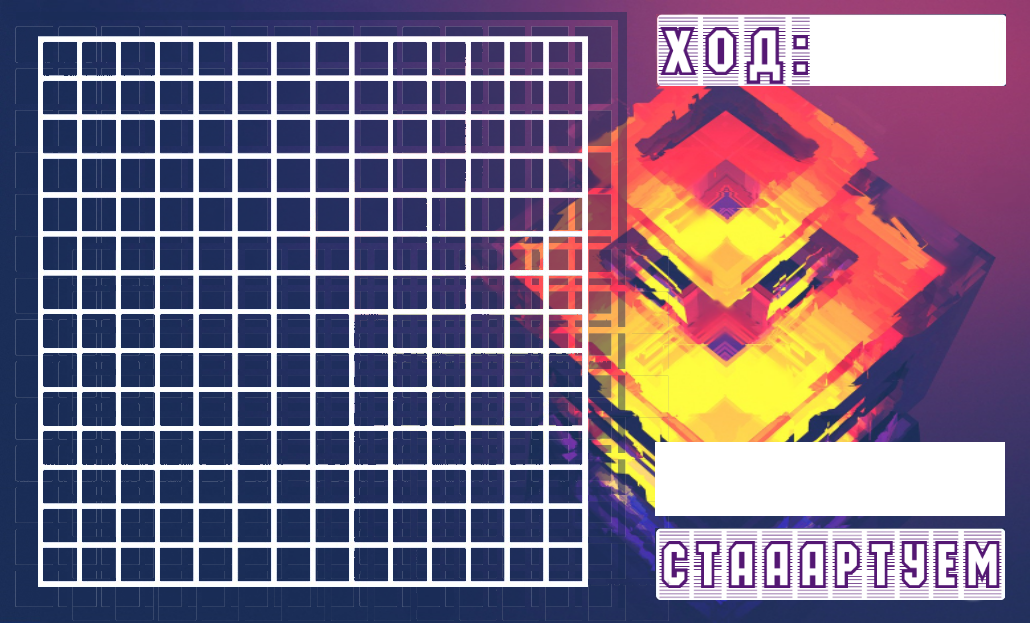
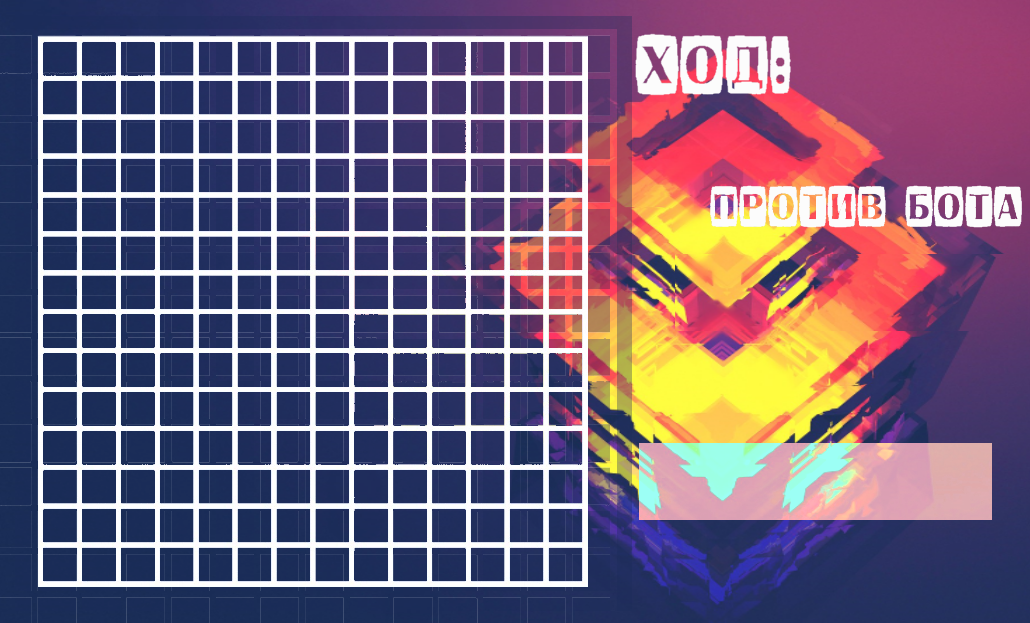
very beautiful

diff --git a/src/Rendzu/styles.css b/src/Rendzu/styles.css
@@ -7,9 +7,16 @@
 
 .button {
     -fx-background-image: url(Images/buttonSkip.png);
-        -fx-background-repeat: stretch;
-        -fx-background-size: 330 67;
-        -fx-background-position: center center;
+    -fx-background-repeat: stretch;
+    -fx-background-size: 375 39;
+    -fx-background-position: center center;
+    -fx-background-color: transparent;
 }
 
-
+.start {
+    -fx-background-image: url(Images/forStart.png);
+    -fx-background-repeat: stretch;
+    -fx-background-size: 414 60;
+    -fx-background-position: center center;
+    -fx-background-color: transparent;
+}

diff --git a/src/Rendzu/Controller.java b/src/Rendzu/Controller.java
@@ -2,6 +2,7 @@ package Rendzu;
 
 import Rendzu.Models.AI;
 import Rendzu.Models.Board;
+import javafx.scene.control.Button;
 import javafx.scene.control.CheckBox;
 import javafx.scene.control.Label;
 import javafx.scene.image.ImageView;
@@ -255,7 +256,8 @@ public class Controller {
         panes[14][14] = p1414;
     }
 
-
+    public Button forStart;
+    public Label forSomeText;
     public Label labelForWhosTurnToGo;
     private Board board;
     private AI ai;
@@ -516,10 +518,14 @@ public class Controller {
 
     void recognize() {
         labelForWhosTurnToGo.setText(numberOfPassedSteps < 2 ? (board.getActive() == 1 ? "YOU" : "ALIEN") : "DRAW");
-        if (board.checkForWin(1))
-            labelForWhosTurnToGo.setText("U WIN");
-        if (board.checkForWin(-1))
-            labelForWhosTurnToGo.setText("U LOSE");
+        if (board.checkForWin(1)) {
+            forSomeText.setText("U WIN");
+            labelForWhosTurnToGo.setText("(=^.^=)");
+        }
+        if (board.checkForWin(-1)) {
+            forSomeText.setText("U LOSE");
+            labelForWhosTurnToGo.setText("(=^.^=)");
+        }
     }
 
     void observer() {

diff --git a/src/Rendzu/Main.java b/src/Rendzu/Main.java
@@ -11,7 +11,7 @@ public class Main extends Application {
     @Override
     public void start(Stage primaryStage) throws Exception{
         Parent root = FXMLLoader.load(getClass().getResource("mainScene.fxml"));
-        primaryStage.setTitle("Rendju");
+        primaryStage.setTitle("Renju");
         primaryStage.setScene(new Scene(root, 1030, 623));
         primaryStage.setResizable(false);
         primaryStage.show();
